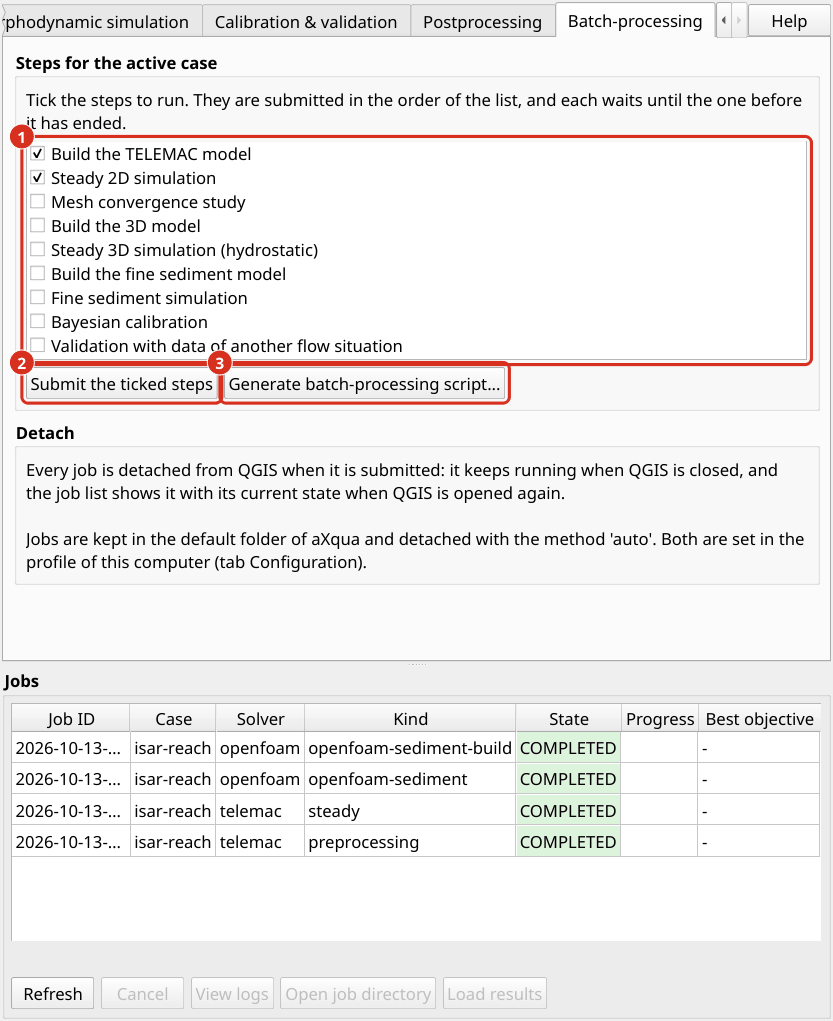
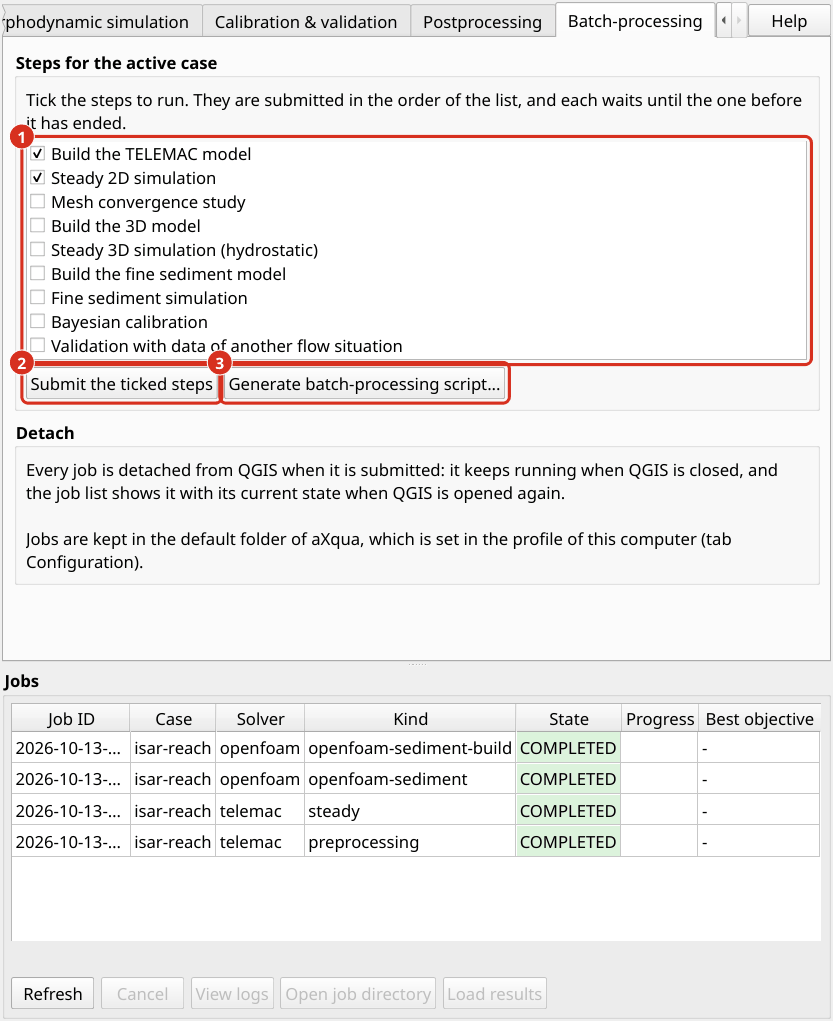
Keep the plugin's texts to the workflow, and load its Processing tools again
The settings dialog explained where two settings had gone that it no longer has. That note is removed, the dialog is as small as its one setting, and its picture is retaken. The same sweep of every text a user reads in the plugin removed the rest of what describes how aXqua is built or how it got there rather than what to do: "no job kind ... run it from a Python driver" on a tab (now "cannot be started from the plugin yet", state "not available yet"), the detach method on the Batch-processing tab, the old name of the environment variable and "aXqua is not on PyPI yet" in the message for a missing aXqua, "no result manifest ... a plain scan" in the import of results, and the same in the description of the Plugin Manager. British spellings in messages became American (color, artifact, canceling).

Found while retaking the pictures: the Processing algorithm "Import job results" still read the two drawing thresholds from the plugin settings, which 28afae2 had removed. Its KeyError opened an error dialog at every start of QGIS, and hung a headless QGIS, which is why build_screenshots.py could not run. Its defaults come from core.styles now; a test loads every algorithm of the provider under real QGIS.

The pictures of the Batch-processing tab and of the installation wizard are taken with build_screenshots.py and the isar-reach scratch copy described in 15422cb.

Claude-Session: https://claude.ai/code/session_01HAW11pWuvLRwbZH3YyxNPn

Changed region(s): [[0.437, 0.5162, 0.9052, 0.5465], [0.0312, 0.5465, 0.437, 0.5769], [0.9364, 0.5162, 0.9676, 0.5465]]

diff --git a/qgis_plugin/axqua/gui/settings_dialog.py b/qgis_plugin/axqua/gui/settings_dialog.py
@@ -1,17 +1,9 @@
 """Plugin settings: where axqua is.
 
 Deliberately small. Everything about the *model* belongs in the case file and
-everything about the *machine* belongs in axqua's own ``profiles.yml``; duplicating
-either here would create a second place to look when something disagrees.
-
-That leaves one setting, and it is genuinely this installation's: which executable to
-talk to. The two drawing thresholds that used to sit here - the minimum water depth
-and the top of the velocity scale - were a case of exactly the duplication above. They
-describe a REACH, not a computer: `hydrodynamics.wet_depth` is the depth below which
-water stands inside the grain roughness rather than flowing over it, and axqua's own
-reports already use it, so a map drawn to a per-install copy disagreed with the report
-beside it; `postproc.velocity_scale_max` is the top of the velocity colour scale, and
-a chute and a lowland river do not share one. They are read from the open case now.
+everything about the *machine* belongs in axqua's own profile; duplicating either here
+would create a second place to look when something disagrees. That leaves one setting
+that is genuinely this installation's: which executable to talk to.
 """
 
 from __future__ import annotations
@@ -41,7 +33,7 @@ class SettingsDialog(QDialog):
     def __init__(self, parent=None) -> None:
         super().__init__(parent)
         self.setWindowTitle("aXqua settings")
-        self.resize(620, 260)
+        self.resize(620, 130)
         values = read_settings()
 
         layout = QVBoxLayout(self)
@@ -64,16 +56,6 @@ class SettingsDialog(QDialog):
         self.result = QLabel("")
         self.result.setWordWrap(True)
         form.addRow("", self.result)
-
-        # A note where two settings used to be, because a user who knew them will
-        # look here first.
-        note = QLabel(
-            "The minimum water depth and the top of the velocity scale are settings "
-            "of the case, not of this computer. They are in the case file under "
-            "hydrodynamics.wet_depth and postproc.velocity_scale_max, and the case "
-            "editor shows them.")
-        note.setWordWrap(True)
-        form.addRow("Drawing of results", note)
 
         layout.addLayout(form)
         buttons = QDialogButtonBox(QDialogButtonBox.StandardButton.Ok

diff --git a/qgis_plugin/axqua/processing/algorithms/import_results.py b/qgis_plugin/axqua/processing/algorithms/import_results.py
@@ -14,8 +14,8 @@ from pathlib import Path
 from qgis.core import (QgsProcessingAlgorithm, QgsProcessingParameterFile,
                        QgsProcessingParameterNumber)
 
+from ...core import styles
 from ...core.result_loader import ResultLoader, discover
-from ...gui.settings_dialog import read_settings
 
 
 class ImportResultsAlgorithm(QgsProcessingAlgorithm):
@@ -48,18 +48,17 @@ class ImportResultsAlgorithm(QgsProcessingAlgorithm):
                 "never copied.")
 
     def initAlgorithm(self, config=None):    # noqa: N802 - QGIS naming
-        settings = read_settings()
         self.addParameter(QgsProcessingParameterFile(
             self.JOB_DIR, "Job directory",
             behavior=QgsProcessingParameterFile.Behavior.Folder))
         self.addParameter(QgsProcessingParameterNumber(
             self.MIN_DEPTH, "Minimum water depth (m), below which depth is transparent",
             type=QgsProcessingParameterNumber.Type.Double,
-            defaultValue=settings["min_depth"], minValue=0.0))
+            defaultValue=styles.DEFAULT_MIN_DEPTH, minValue=0.0))
         self.addParameter(QgsProcessingParameterNumber(
             self.VELOCITY_CAP, "Velocity scale maximum (m/s)",
             type=QgsProcessingParameterNumber.Type.Double,
-            defaultValue=settings["velocity_cap"], minValue=0.1))
+            defaultValue=styles.DEFAULT_VELOCITY_MAX, minValue=0.1))
         from qgis.core import QgsProcessingOutputNumber
         self.addOutput(QgsProcessingOutputNumber(self.COUNT, "Layers added"))
 
@@ -73,10 +72,8 @@ class ImportResultsAlgorithm(QgsProcessingAlgorithm):
         results = discover(job_dir)
         if not results.layers:
             raise QgsProcessingException(
-                f"{job_dir} holds nothing QGIS can open."
-                + ("" if results.from_manifest
-                   else " There is no result manifest either, so this was a plain scan "
-                        "of the folder."))
+                f"{job_dir} holds no results QGIS can open. Select the folder of a "
+                "completed job.")
         loader = ResultLoader(context.project(), min_depth=min_depth, velocity_cap=cap)
         added = loader.load(results)
         for warning in loader.warnings:

diff --git a/qgis_plugin/axqua/core/runner_client.py b/qgis_plugin/axqua/core/runner_client.py
@@ -151,17 +151,14 @@ def find_executable(configured: str | None = None) -> RunnerInfo:
     # Never a silent fallback to some other interpreter: say what was tried.
     lines = ["axqua could not be found.", "", "Looked in:",
              f"  1. the plugin setting ({configured or 'not set'})",
-             # Both spellings, because both are honoured: a shell profile written before
-             # the rename still works, and a message that named only the new one would
-             # send that user looking for a variable they have already set.
-             f"  2. ${ENV_VAR}, or ${LEGACY_ENV_VAR} ({from_env or 'not set'})",
+             f"  2. ${ENV_VAR} ({from_env or 'not set'})",
              f"  3. PATH ({on_path or 'not found'})"]
     if problems:
         lines += ["", "What was tried:"] + problems
     lines += ["", "Install it with",
               "    pip install git+https://github.com/sschwindt/aXqua.git",
-              "in the environment that has your solver tooling (aXqua is not on PyPI "
-              "yet), then set the path in aXqua > Settings."]
+              "in the Python environment of your choice, then set the path in "
+              "aXqua > Settings."]
     raise RunnerNotFound("\n".join(lines))
 
 
@@ -227,8 +224,7 @@ def _require_minimum(version: str) -> None:
             f"this plugin needs axqua {MINIMUM_VERSION[0]}.{MINIMUM_VERSION[1]} or "
             f"newer, and this one is {version}",
             remedy="Upgrade it with 'pip install --upgrade "
-                   "git+https://github.com/sschwindt/aXqua.git' in the environment that "
-                   "has your solver tooling.")
+                   "git+https://github.com/sschwindt/aXqua.git' in its Python environment.")
 
 
 def _no_window() -> dict:

diff --git a/qgis_plugin/axqua/gui/capability_tabs.py b/qgis_plugin/axqua/gui/capability_tabs.py
@@ -94,10 +94,7 @@ NOT_CONFIGURED_REASON = (
 #: is an enabled tab with two buttons that cannot do anything. None of today's
 #: capabilities is in that position any more (see :data:`PART_OF` and
 #: :data:`FIXED_OPTIONS`), and a future one still gets this text rather than dead buttons.
-NO_JOB_KIND_REASON = (
-    "axqua implements {title} for {solver}, but not yet as a job the runner can "
-    "submit - there is no job kind for it. Run it from a Python driver in the case "
-    "folder for now.")
+NO_JOB_KIND_REASON = "{title} with {solver} cannot be started from the plugin yet."
 
 
 #: Capabilities that are not simulations of their own. They are switched on in the case
@@ -195,7 +192,7 @@ class CapabilityView:
         if self.implemented != "yes":
             return "not available"
         if not self.submittable and not self.part_of:
-            return "no job kind"
+            return "not available yet"
         marks = [name for name, flag in (("configured", self.configured),
                                          ("built", self.built), ("run", self.run))
                  if flag]

diff --git a/qgis_plugin/tests/test_plugin_core.py b/qgis_plugin/tests/test_plugin_core.py
@@ -483,8 +483,8 @@ def test_a_capability_with_no_job_kind_is_disabled_rather_than_dead():
     assert capability.submittable is False
     assert capability.enabled is False
     assert capability.can_submit is False
-    assert capability.state_text == "no job kind"
-    assert "Python driver" in capability.reason
+    assert capability.state_text == "not available yet"
+    assert "cannot be started from the plugin yet" in capability.reason
 
 
 def test_morphodynamics_runs_with_the_flow_and_the_tab_says_so():
@@ -493,7 +493,7 @@ def test_morphodynamics_runs_with_the_flow_and_the_tab_says_so():
     view = CaseView.from_payload(MATRIX)
     capability = view.solver("telemac").capability("morphodynamics")
     assert capability.visible is True and capability.can_submit is False
-    assert capability.state_text != "no job kind"
+    assert capability.state_text != "not available yet"
     assert "coupled with GAIA" in capability.reason
     assert "Python driver" not in capability.reason
 

diff --git a/qgis_plugin/tests/test_plugin_qgis.py b/qgis_plugin/tests/test_plugin_qgis.py
@@ -2253,3 +2253,18 @@ def test_validation_is_a_step_of_a_batch_after_the_calibration():
 
     assert batch.ordered(["validation", "calibration", "steady"]) == \
         ["steady", "calibration", "validation"]
+
+
+def test_every_processing_algorithm_loads(qgis_app):
+    """QGIS loads the provider at start; one algorithm that raised there opened an
+    error dialog at every start of QGIS (and hung a headless one). The import of
+    results read two settings that had moved into the case."""
+    from axqua_plugin.processing.provider import AxquaProvider
+
+    provider = AxquaProvider()
+    provider.loadAlgorithms()
+    for algorithm in provider.algorithms():
+        algorithm.initAlgorithm({})
+        assert algorithm.shortHelpString()
+    names = {algorithm.name() for algorithm in provider.algorithms()}
+    assert {"importresults"} <= names and len(names) == 3

diff --git a/qgis_plugin/axqua/gui/section_pages.py b/qgis_plugin/axqua/gui/section_pages.py
@@ -604,13 +604,12 @@ class BatchPage(QWidget):
 
     def show_profile(self, profile) -> None:
         root = get(profile or {}, "jobs.root") or "the default folder of aXqua"
-        how = get(profile or {}, "jobs.launcher") or "auto"
         self.detach.setText(
             "Every job is detached from QGIS when it is submitted: it keeps running "
             "when QGIS is closed, and the job list shows it with its current state "
             "when QGIS is opened again.\n\n"
-            f"Jobs are kept in {root} and detached with the method '{how}'. Both are "
-            "set in the profile of this computer (tab Configuration).")
+            f"Jobs are kept in {root}, which is set in the profile of this computer "
+            "(tab Configuration).")
 
 
 def _qt():

diff --git a/qgis_plugin/axqua/gui/movie_dialog.py b/qgis_plugin/axqua/gui/movie_dialog.py
@@ -269,7 +269,7 @@ class MovieDialog(QDialog):
             self.reject()
             return
         self._cancelled = True
-        self.note.setText("Cancelling after the current frame...")
+        self.note.setText("Canceling after the current frame...")
 
     def _finish(self) -> None:
         self._running = False
@@ -277,7 +277,7 @@ class MovieDialog(QDialog):
         if self._frames_dir is None or self._output is None:
             return
         if self._cancelled:
-            self.note.setText(f"Cancelled. {self._step} frame(s) kept in "
+            self.note.setText(f"Canceled. {self._step} frame(s) kept in "
                               f"{self._frames_dir}.")
             return
         self._encode(self._frames_dir, self._output, self._step)

diff --git a/qgis_plugin/axqua/core/styles.py b/qgis_plugin/axqua/core/styles.py
@@ -89,9 +89,9 @@ class VelocityStyle:
     def warning(self) -> str:
         if self.clamped_from is None:
             return ""
-        return (f"The mesh reaches {self.clamped_from:.2f} m/s; the colour scale is "
+        return (f"The mesh reaches {self.clamped_from:.2f} m/s; the color scale is "
                 f"capped at {self.maximum:.1f} m/s. Velocities above ~5 m/s in a "
-                "depth-averaged result are usually a wetting/drying artefact in a "
+                "depth-averaged result are usually a wetting/drying artifact in a "
                 "nearly-dry cell rather than real flow. Override the maximum if the "
                 "reach genuinely is that fast.")
 

diff --git a/qgis_plugin/axqua/core/result_loader.py b/qgis_plugin/axqua/core/result_loader.py
@@ -369,7 +369,7 @@ class ResultLoader:
                 # and a user who is not told will read that as a modelling result.
                 self.warnings.append(
                     f"{item.name}: the depth range could not be read from the file "
-                    f"({why}), so the colour scale is capped at 1 m. Adjust it in "
+                    f"({why}), so the color scale is capped at 1 m. Adjust it in "
                     "Layer Properties > Symbology.")
                 maximum = 1.0
             style = styles.DepthStyle(minimum=self.min_depth, maximum=maximum)

diff --git a/qgis_plugin/axqua/processing/algorithms/check_status.py b/qgis_plugin/axqua/processing/algorithms/check_status.py
@@ -41,7 +41,7 @@ class CheckStatusAlgorithm(QgsProcessingAlgorithm):
         return "jobs"
 
     def shortHelpString(self) -> str:  # noqa: N802 - QGIS naming
-        return ("Reports the current state of a axqua job (QUEUED, RUNNING, "
+        return ("Reports the current state of an aXqua job (QUEUED, RUNNING, "
                 "COMPLETED, FAILED, CANCELLED ...) together with its progress.\n\n"
                 "Returns immediately - it does not wait for the job to finish.")
 

diff --git a/scripts/build_settings_screenshot.py b/scripts/build_settings_screenshot.py
@@ -56,7 +56,7 @@ def _render() -> int:
         dialog = SettingsDialog()
         # wide enough that the whole path is readable: the figure exists to show what
         # a correct entry looks like, and a field scrolled to its end shows the tail
-        dialog.resize(820, 250)
+        dialog.resize(820, 130)
         dialog.executable.setText(SHOWN_PATH)
         dialog.executable.setCursorPosition(0)
         dialog.result.setText(SHOWN_RESULT.format(version=_axqua_version()))
